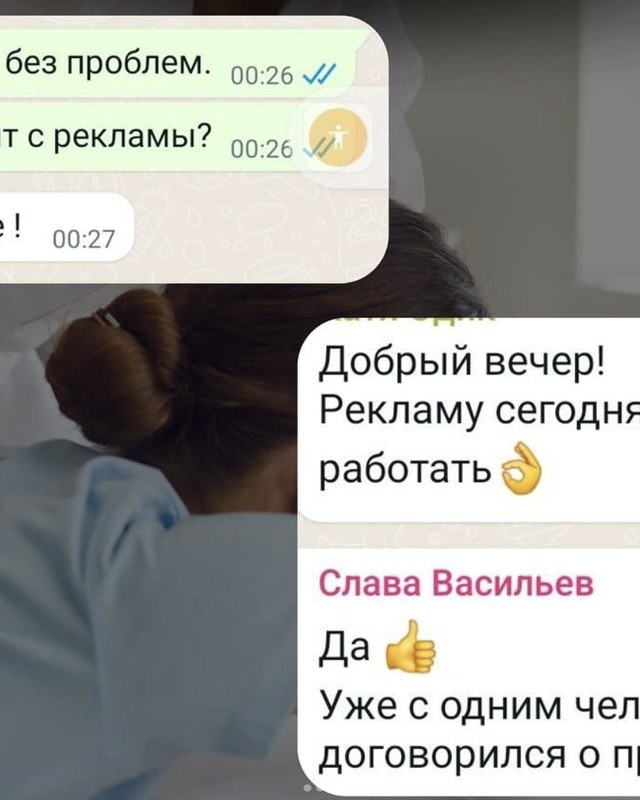
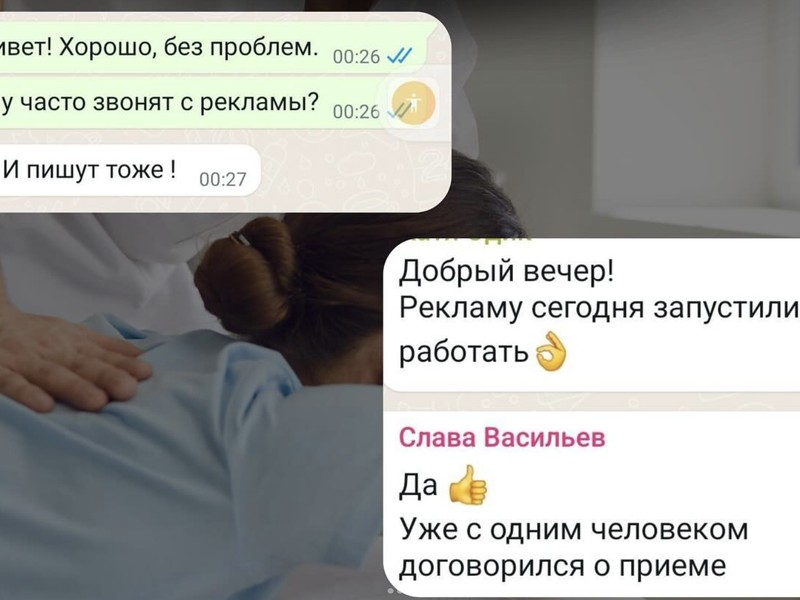
testik 1312 photo

diff --git a/index.html b/index.html
@@ -84,7 +84,7 @@ section{position:relative;z-index:1;padding:90px 5vw}
 .gal-grid{display:grid;grid-template-columns:repeat(auto-fill,minmax(260px,1fr));gap:14px;max-width:1100px;margin:0 auto}
 .gal-card{border-radius:20px;overflow:hidden;background:var(--d3);border:1px solid var(--bdim);transition:all var(--e);aspect-ratio:16/10;position:relative;cursor:pointer}
 .gal-card:hover{border-color:var(--bdr);transform:translateY(-3px);box-shadow:0 16px 40px rgba(0,0,0,.5)}
-.gal-img{width:100%;height:100%;object-fit:cover;display:block;filter:brightness(.88);transition:filter var(--e),transform var(--e)}
+.gal-img{width:100%;height:100%;object-fit:cover;object-position:center bottom;display:block;filter:brightness(.88);transition:filter var(--e),transform var(--e)}
 .gal-card:hover .gal-img{filter:brightness(1);transform:scale(1.03)}
 .gal-ph{width:100%;height:100%;display:flex;flex-direction:column;align-items:center;justify-content:center;gap:10px;color:var(--mu);background:linear-gradient(135deg,var(--d3),var(--d4))}
 .gal-ph svg{width:36px;height:36px;opacity:.3;stroke:currentColor;fill:none;stroke-width:1.5}
@@ -97,9 +97,9 @@ section{position:relative;z-index:1;padding:90px 5vw}
 .rev-grid{display:grid;grid-template-columns:repeat(auto-fill,minmax(280px,1fr));gap:14px;max-width:1100px;margin:0 auto}
 .rev-card{border-radius:20px;overflow:hidden;background:var(--d3);border:1px solid var(--bdim);transition:all var(--e);cursor:pointer}
 .rev-card:hover{border-color:var(--bdr);transform:translateY(-3px);box-shadow:0 16px 40px rgba(0,0,0,.5)}
-.rev-img{width:100%;aspect-ratio:16/10;object-fit:cover;object-position:center top;display:block;filter:brightness(.88);transition:filter var(--e)}
+.rev-img{width:100%;aspect-ratio:4/3;object-fit:cover;object-position:center center;display:block;filter:brightness(.88);transition:filter var(--e)}
 .rev-card:hover .rev-img{filter:brightness(1)}
-.rev-ph{width:100%;aspect-ratio:16/10;display:flex;flex-direction:column;align-items:center;justify-content:center;gap:10px;color:var(--mu);background:linear-gradient(135deg,var(--d3),var(--d4))}
+.rev-ph{width:100%;aspect-ratio:4/3;display:flex;flex-direction:column;align-items:center;justify-content:center;gap:10px;color:var(--mu);background:linear-gradient(135deg,var(--d3),var(--d4))}
 .rev-ph svg{width:34px;height:34px;opacity:.3;stroke:currentColor;fill:none;stroke-width:1.5}
 .rev-ph span{font-size:.7rem;font-weight:600;letter-spacing:.06em;text-transform:uppercase;opacity:.4}
 .rev-body{padding:16px}
